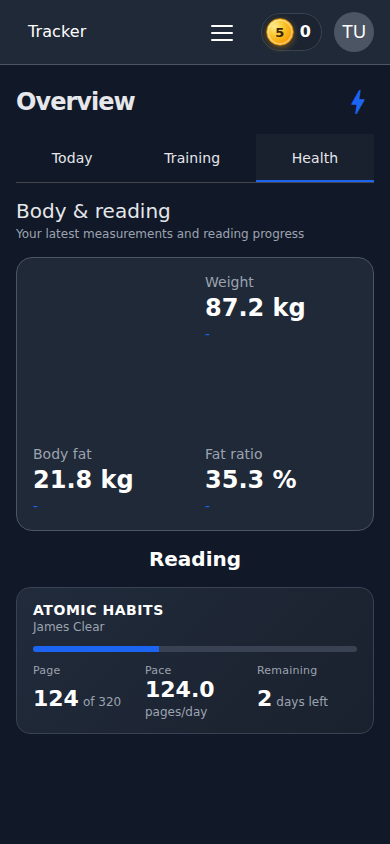
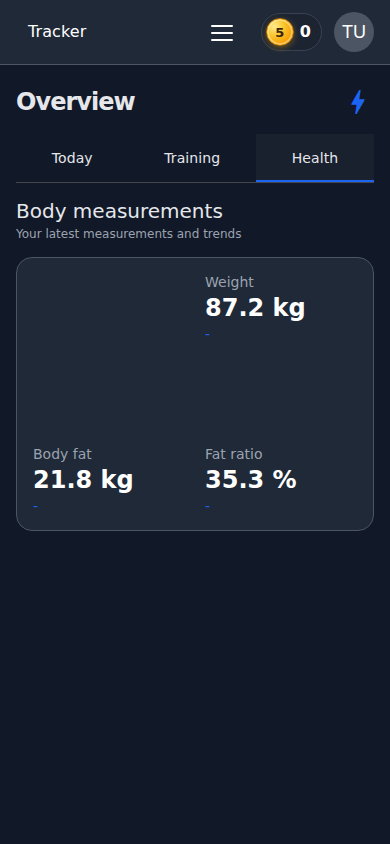
Keep reading details on Today instead of Health

diff --git a/test/tests/mobile-dashboard.spec.ts b/test/tests/mobile-dashboard.spec.ts
@@ -23,6 +23,16 @@ test('daily overview stays compact with a long task list', async ({ page }, test
   expect(await page.evaluate(() => document.documentElement.scrollWidth)).toBe(390);
   await page.screenshot({ path: testInfo.outputPath('iphone-overview.png'), fullPage: true });
 
+  const reading = page.getByRole('article', { name: 'Atomic Habits', exact: true });
+  await expect(reading).toBeInViewport({ ratio: 1 });
+  await expect(reading.getByText('pages/day', { exact: true })).not.toBeVisible();
+  await reading.getByText('Reading details', { exact: true }).click();
+  await expect(reading.getByText('pages/day', { exact: true })).toBeVisible();
+  await expect(page.getByRole('dialog')).toHaveCount(0);
+  await page.screenshot({ path: testInfo.outputPath('iphone-reading-expanded.png'), fullPage: true });
+  await reading.getByText('Reading details', { exact: true }).click();
+  await expect(reading.getByText('pages/day', { exact: true })).not.toBeVisible();
+
   await tasks.getByRole('button', { name: 'View all 12 tasks' }).click();
   await expect(tasks.getByRole('checkbox')).toHaveCount(12);
   await tasks.getByRole('checkbox', { name: 'Floss', exact: true }).check();
@@ -44,6 +54,7 @@ test('daily overview stays compact with a long task list', async ({ page }, test
   await expect(page.getByRole('tab', { name: 'Training', exact: true })).toHaveAttribute('aria-selected', 'true');
   await page.getByRole('tab', { name: 'Health', exact: true }).click();
   await expect(page.getByRole('heading', { name: 'Weight', exact: true })).toBeVisible();
+  await expect(page.getByRole('region', { name: 'Reading', exact: true })).toHaveCount(0);
   await page.screenshot({ path: testInfo.outputPath('iphone-health.png'), fullPage: true });
   await page.getByRole('tab', { name: 'Today', exact: true }).click();
   await tasks.getByRole('button', { name: 'View all 12 tasks' }).click();

diff --git a/test/tests/reading.spec.ts b/test/tests/reading.spec.ts
@@ -117,15 +117,17 @@ test.describe('Reading', () => {
     await insertReadingProgress(bookId, 100, daysAgoAt(4, 8));
     await insertReadingProgress(bookId, 140, daysAgoAt(0, 12));
 
-    await page.goto('/?view=health');
+    await page.goto('/');
     const section = page.getByRole('region', { name: 'Reading' });
     const book = section.getByRole('button', {
       name: /Resumed Book, 140 of 300 pages/,
     });
     await expect(book).toBeVisible();
-    await expect(book.getByText('8.0', { exact: true })).toBeVisible();
-    await expect(book.getByText('20', { exact: true })).toBeVisible();
-    await expect(book.getByText('days left')).toBeVisible();
+    const details = section.getByRole('article', { name: 'Resumed Book', exact: true });
+    await details.getByText('Reading details', { exact: true }).click();
+    await expect(details.getByText('8.0', { exact: true })).toBeVisible();
+    await expect(details.getByText('20', { exact: true })).toBeVisible();
+    await expect(details.getByText('days left')).toBeVisible();
   });
 
   test('only counts pages read past the starting page toward the daily goal', async ({
@@ -228,9 +230,10 @@ test.describe('Reading', () => {
     await insertReadingProgress(bookId, 0, daysAgoAt(4, 8));
     await insertReadingProgress(bookId, 100, daysAgoAt(0, 12));
 
-    await page.goto('/?view=health');
+    await page.goto('/');
     const section = page.getByRole('region', { name: 'Reading' });
-    const book = section.getByRole('button', { name: /Long Book/ });
+    const book = section.getByRole('article', { name: 'Long Book', exact: true });
+    await book.getByText('Reading details', { exact: true }).click();
     await expect(book.getByText(/days? left/)).toBeVisible();
     await expect(book.getByText('pages/day')).toBeVisible();
   });

diff --git a/client/src/app/reading/reading.component.html b/client/src/app/reading/reading.component.html
@@ -10,6 +10,7 @@
     @if (inProgressBooks().length === 0) {
     <p class="empty">No books in progress. Add a book in Settings.</p>
     } @for (book of visibleBooks(); track book.id) {
+    <article class="book-entry" [attr.aria-label]="book.title">
     <div
       class="book"
       role="button"
@@ -34,7 +35,10 @@
 
       @if (compact()) {
         <p class="compact-progress">{{ book.currentPage }} / {{ book.totalPages }} pages <span>Update progress →</span></p>
-      } @else {
+      }
+    </div>
+    <details class="book-details">
+      <summary>Reading details</summary>
       <dl class="stats">
         <div class="stat">
           <dt>Page</dt>
@@ -58,8 +62,8 @@
           </dd>
         </div>
       </dl>
-      }
-    </div>
+    </details>
+    </article>
     }
   </div>
   @if (compact() && inProgressBooks().length > 1) {

diff --git a/client/src/app/reading/reading.component.css b/client/src/app/reading/reading.component.css
@@ -167,3 +167,24 @@ dd {
 .compact-progress span {
   color: var(--mat-sys-on-surface);
 }
+
+.book-details {
+  padding: 0 16px;
+}
+
+.book-details summary {
+  min-height: 44px;
+  align-content: center;
+  cursor: pointer;
+  font-size: 12px;
+  color: var(--bt-text-muted);
+}
+
+.book-details summary:focus-visible {
+  outline: 2px solid var(--mat-sys-primary);
+  outline-offset: 2px;
+}
+
+.book-details .stats {
+  padding: 8px 0 16px;
+}

diff --git a/client/src/app/home/home.component.html b/client/src/app/home/home.component.html
@@ -29,9 +29,8 @@
   <mat-tab label="Health">
     <ng-template matTabContent>
       <div class="detail-grid">
-        <div class="section-intro"><h2>Body & reading</h2><p>Your latest measurements and reading progress</p></div>
+        <div class="section-intro"><h2>Body measurements</h2><p>Your latest measurements and trends</p></div>
         <app-weight />
-        <app-reading />
       </div>
     </ng-template>
   </mat-tab>

diff --git a/docs/screenshots/iphone-dashboard/README.md b/docs/screenshots/iphone-dashboard/README.md
@@ -18,6 +18,7 @@ was 2,488 pixels tall; the redesigned Today view fits within the viewport.
 
 - [Training](iphone-training.png)
 - [Health](iphone-health.png)
+- [Reading details expanded on Today](iphone-reading-expanded.png)
 - [Smaller iPhone viewport, 375 × 667](iphone-se-overview.png)
 - [Desktop, 1440 × 1000](desktop-overview.png)
 - [Ride achievement collapsed](iphone-podium-collapsed.png)
@@ -37,4 +38,5 @@ npx playwright test mobile-dashboard.spec.ts
 
 The test output includes fresh screenshots and checks task expansion,
 completion persistence, quick logging, tab navigation, period selection,
-viewport fit, and achievement disclosure.
+viewport fit, reading-detail disclosure on Today, and achievement disclosure.
+Health contains only body measurements and trends.
